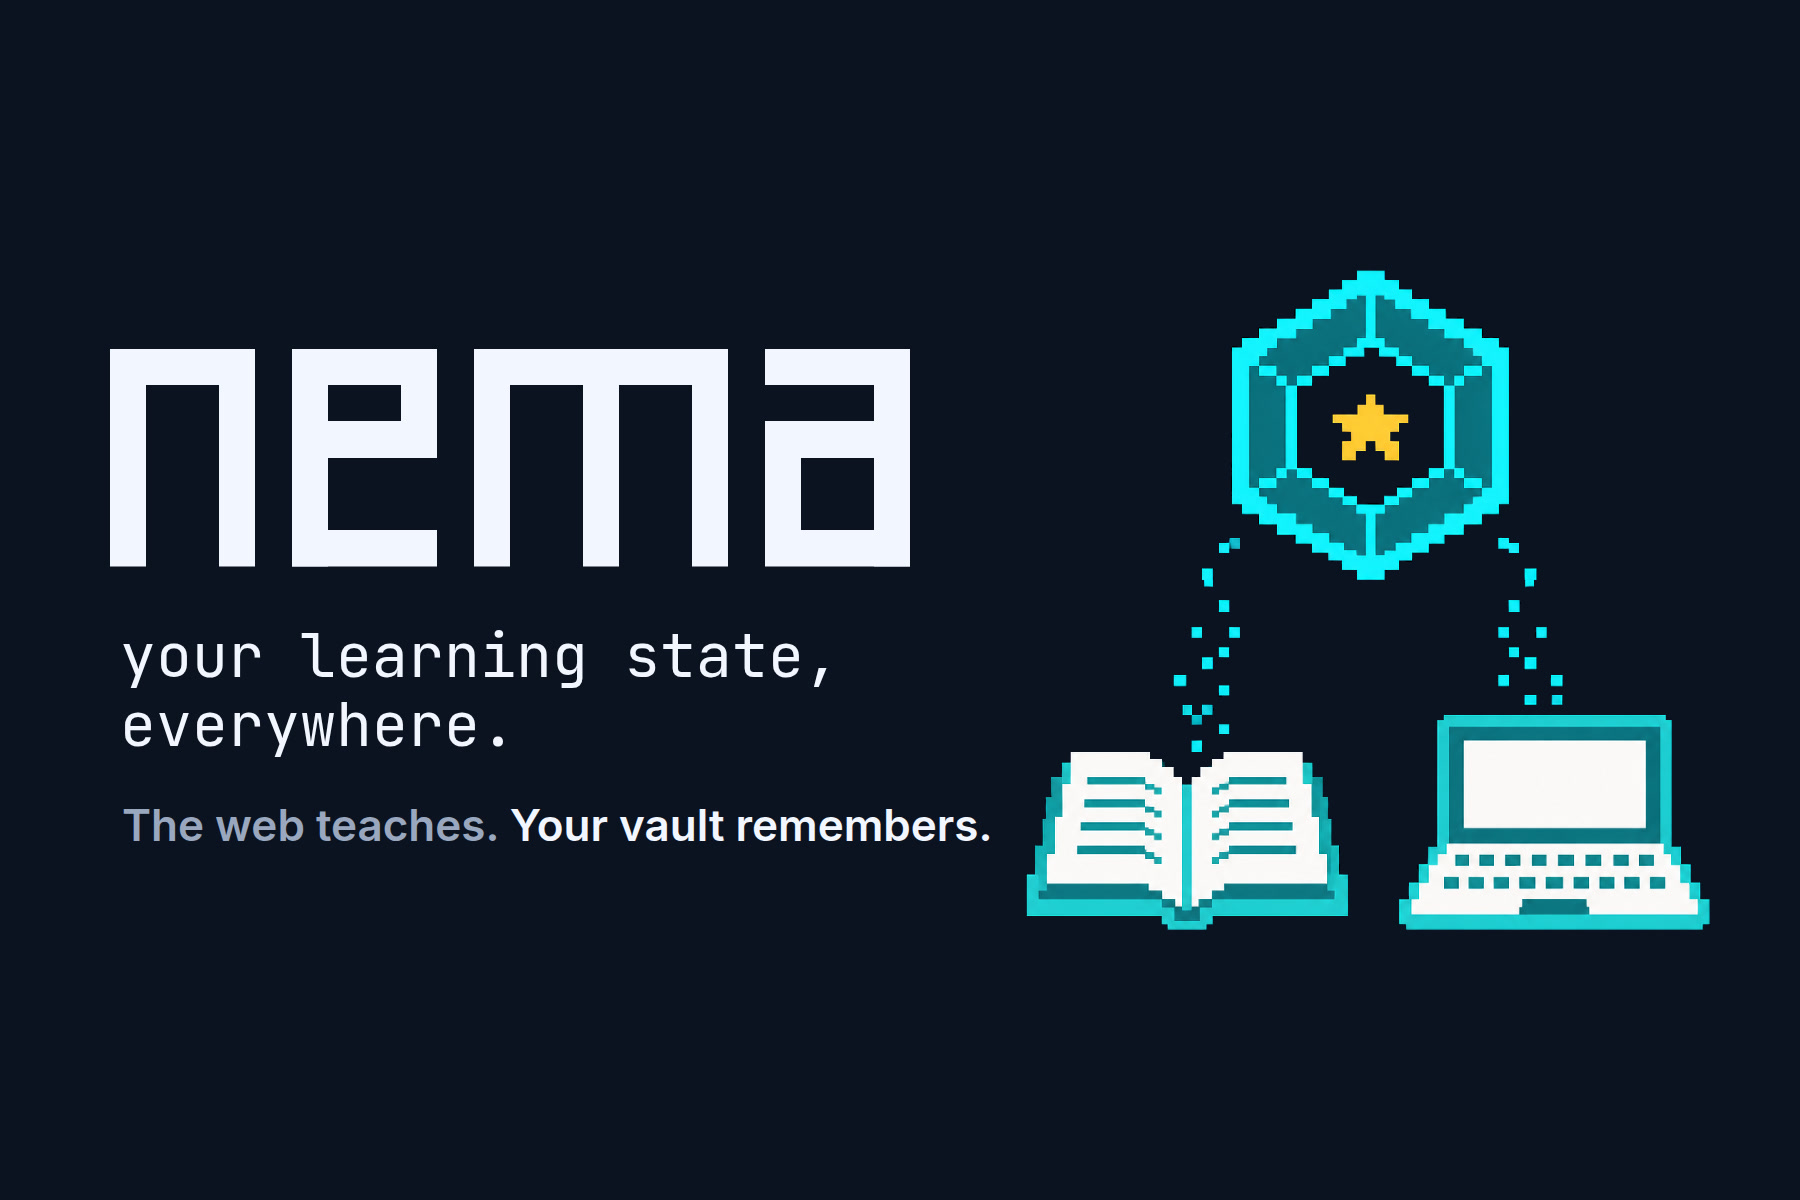
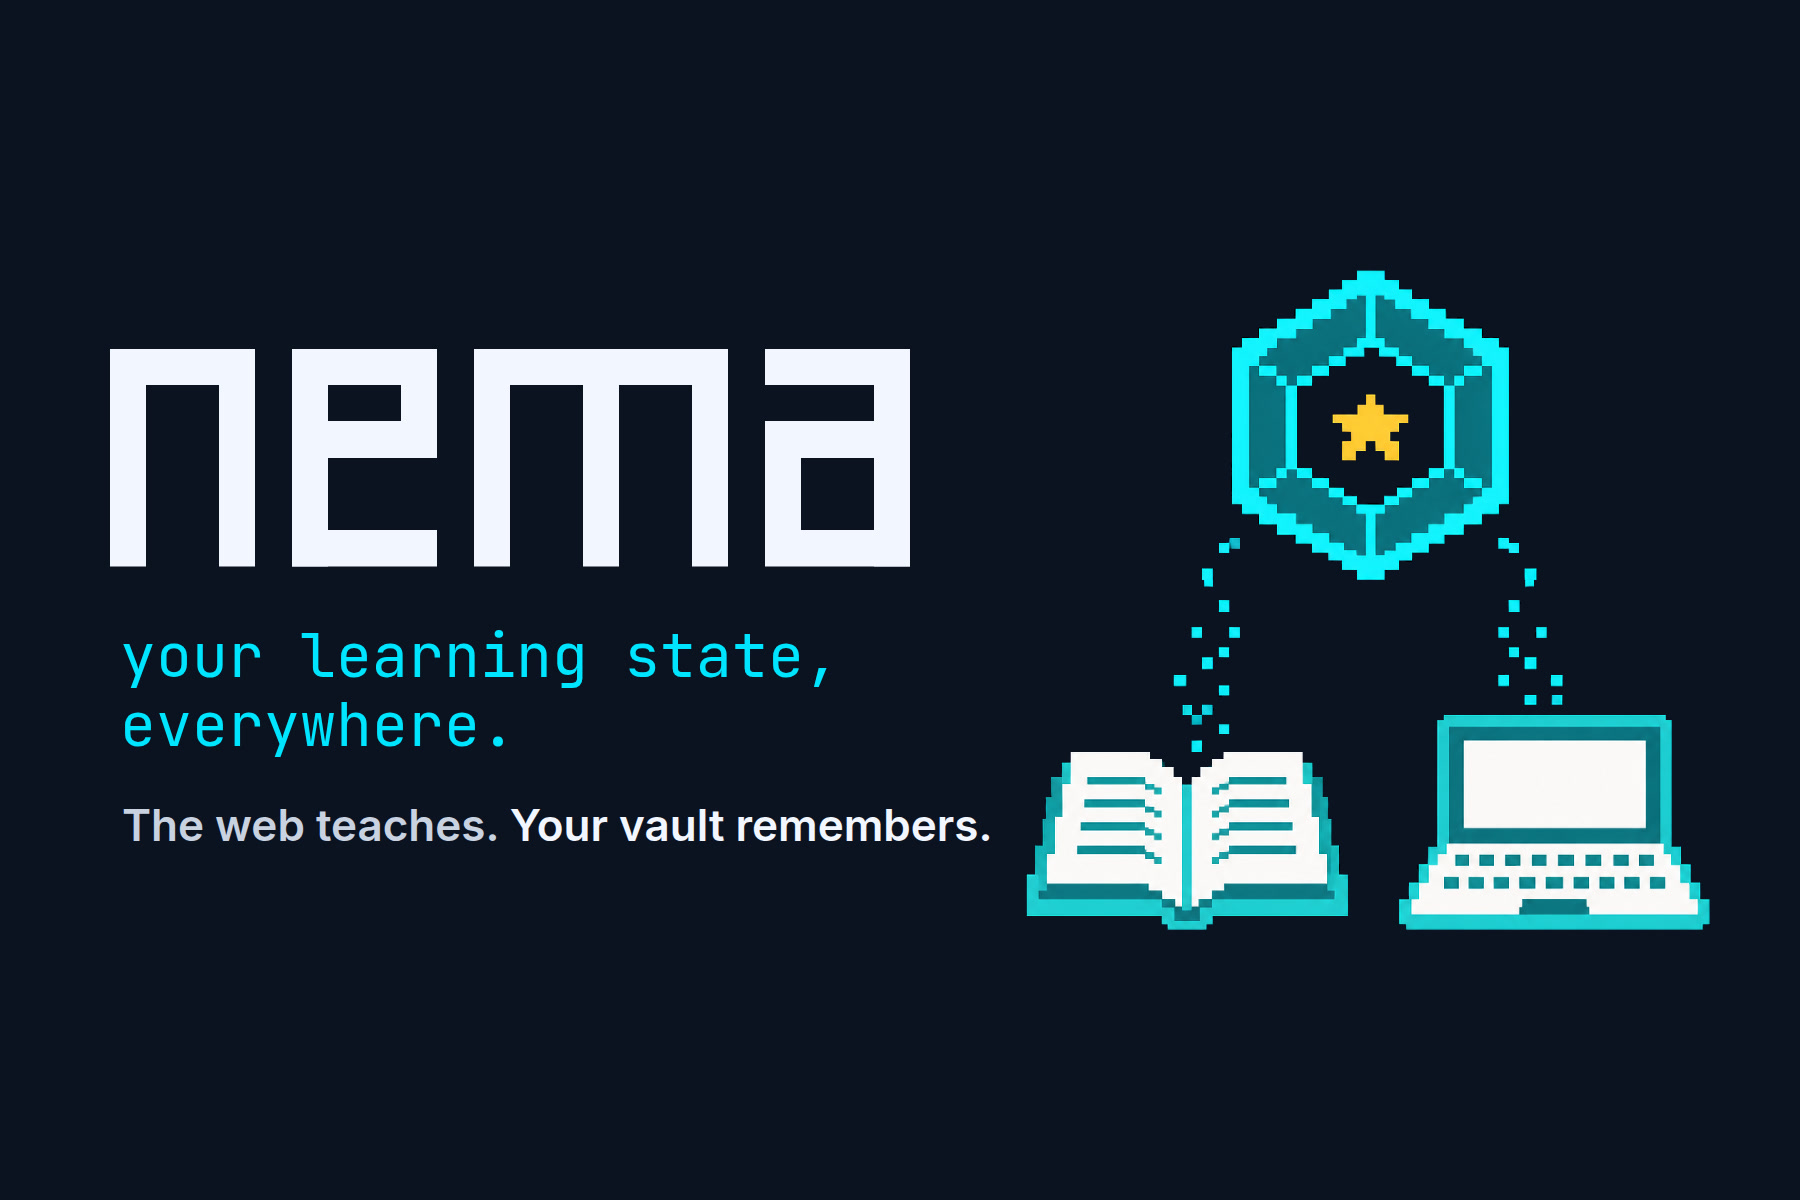
thumbnail: one cyan accent, the tagline; sub line neutral
Claude-Session: https://claude.ai/code/session_01AfeggrhBqzmN8guag9N5jj

Changed region(s): [[0.0622, 0.5242, 0.4356, 0.6167], [0.0622, 0.6783, 0.28, 0.7092], [0.4356, 0.555, 0.4667, 0.5858]]

diff --git a/docs/assets/devpost-thumbnail.html b/docs/assets/devpost-thumbnail.html
@@ -9,9 +9,9 @@
   .copy { position: absolute; left: 110px; top: 50%; transform: translateY(-50%); width: 900px; }
   .word { width: 800px; color: #F2F6FF; }
   .word svg { width: 100%; height: auto; display: block; }
-  .tag { margin: 54px 0 0 10px; font-family: var(--font-mono, "JetBrains Mono", monospace); font-size: 60px; color: #F2F6FF; line-height: 1.15; }
+  .tag { margin: 54px 0 0 10px; font-family: var(--font-mono, "JetBrains Mono", monospace); font-size: 60px; color: #00E5FF; line-height: 1.15; }
   .sub { margin: 40px 0 0 12px; font-size: 44px; line-height: 1.2; font-weight: 600; color: #F2F6FF; }
-  .sub { color: #9AA8BF; } .sub .v { color: #F2F6FF; }
+  .sub { color: #C9D2E0; } .sub .v { color: #F2F6FF; }
 </style>
 <div class="card">
   <img class="art" src="ART_URL">
